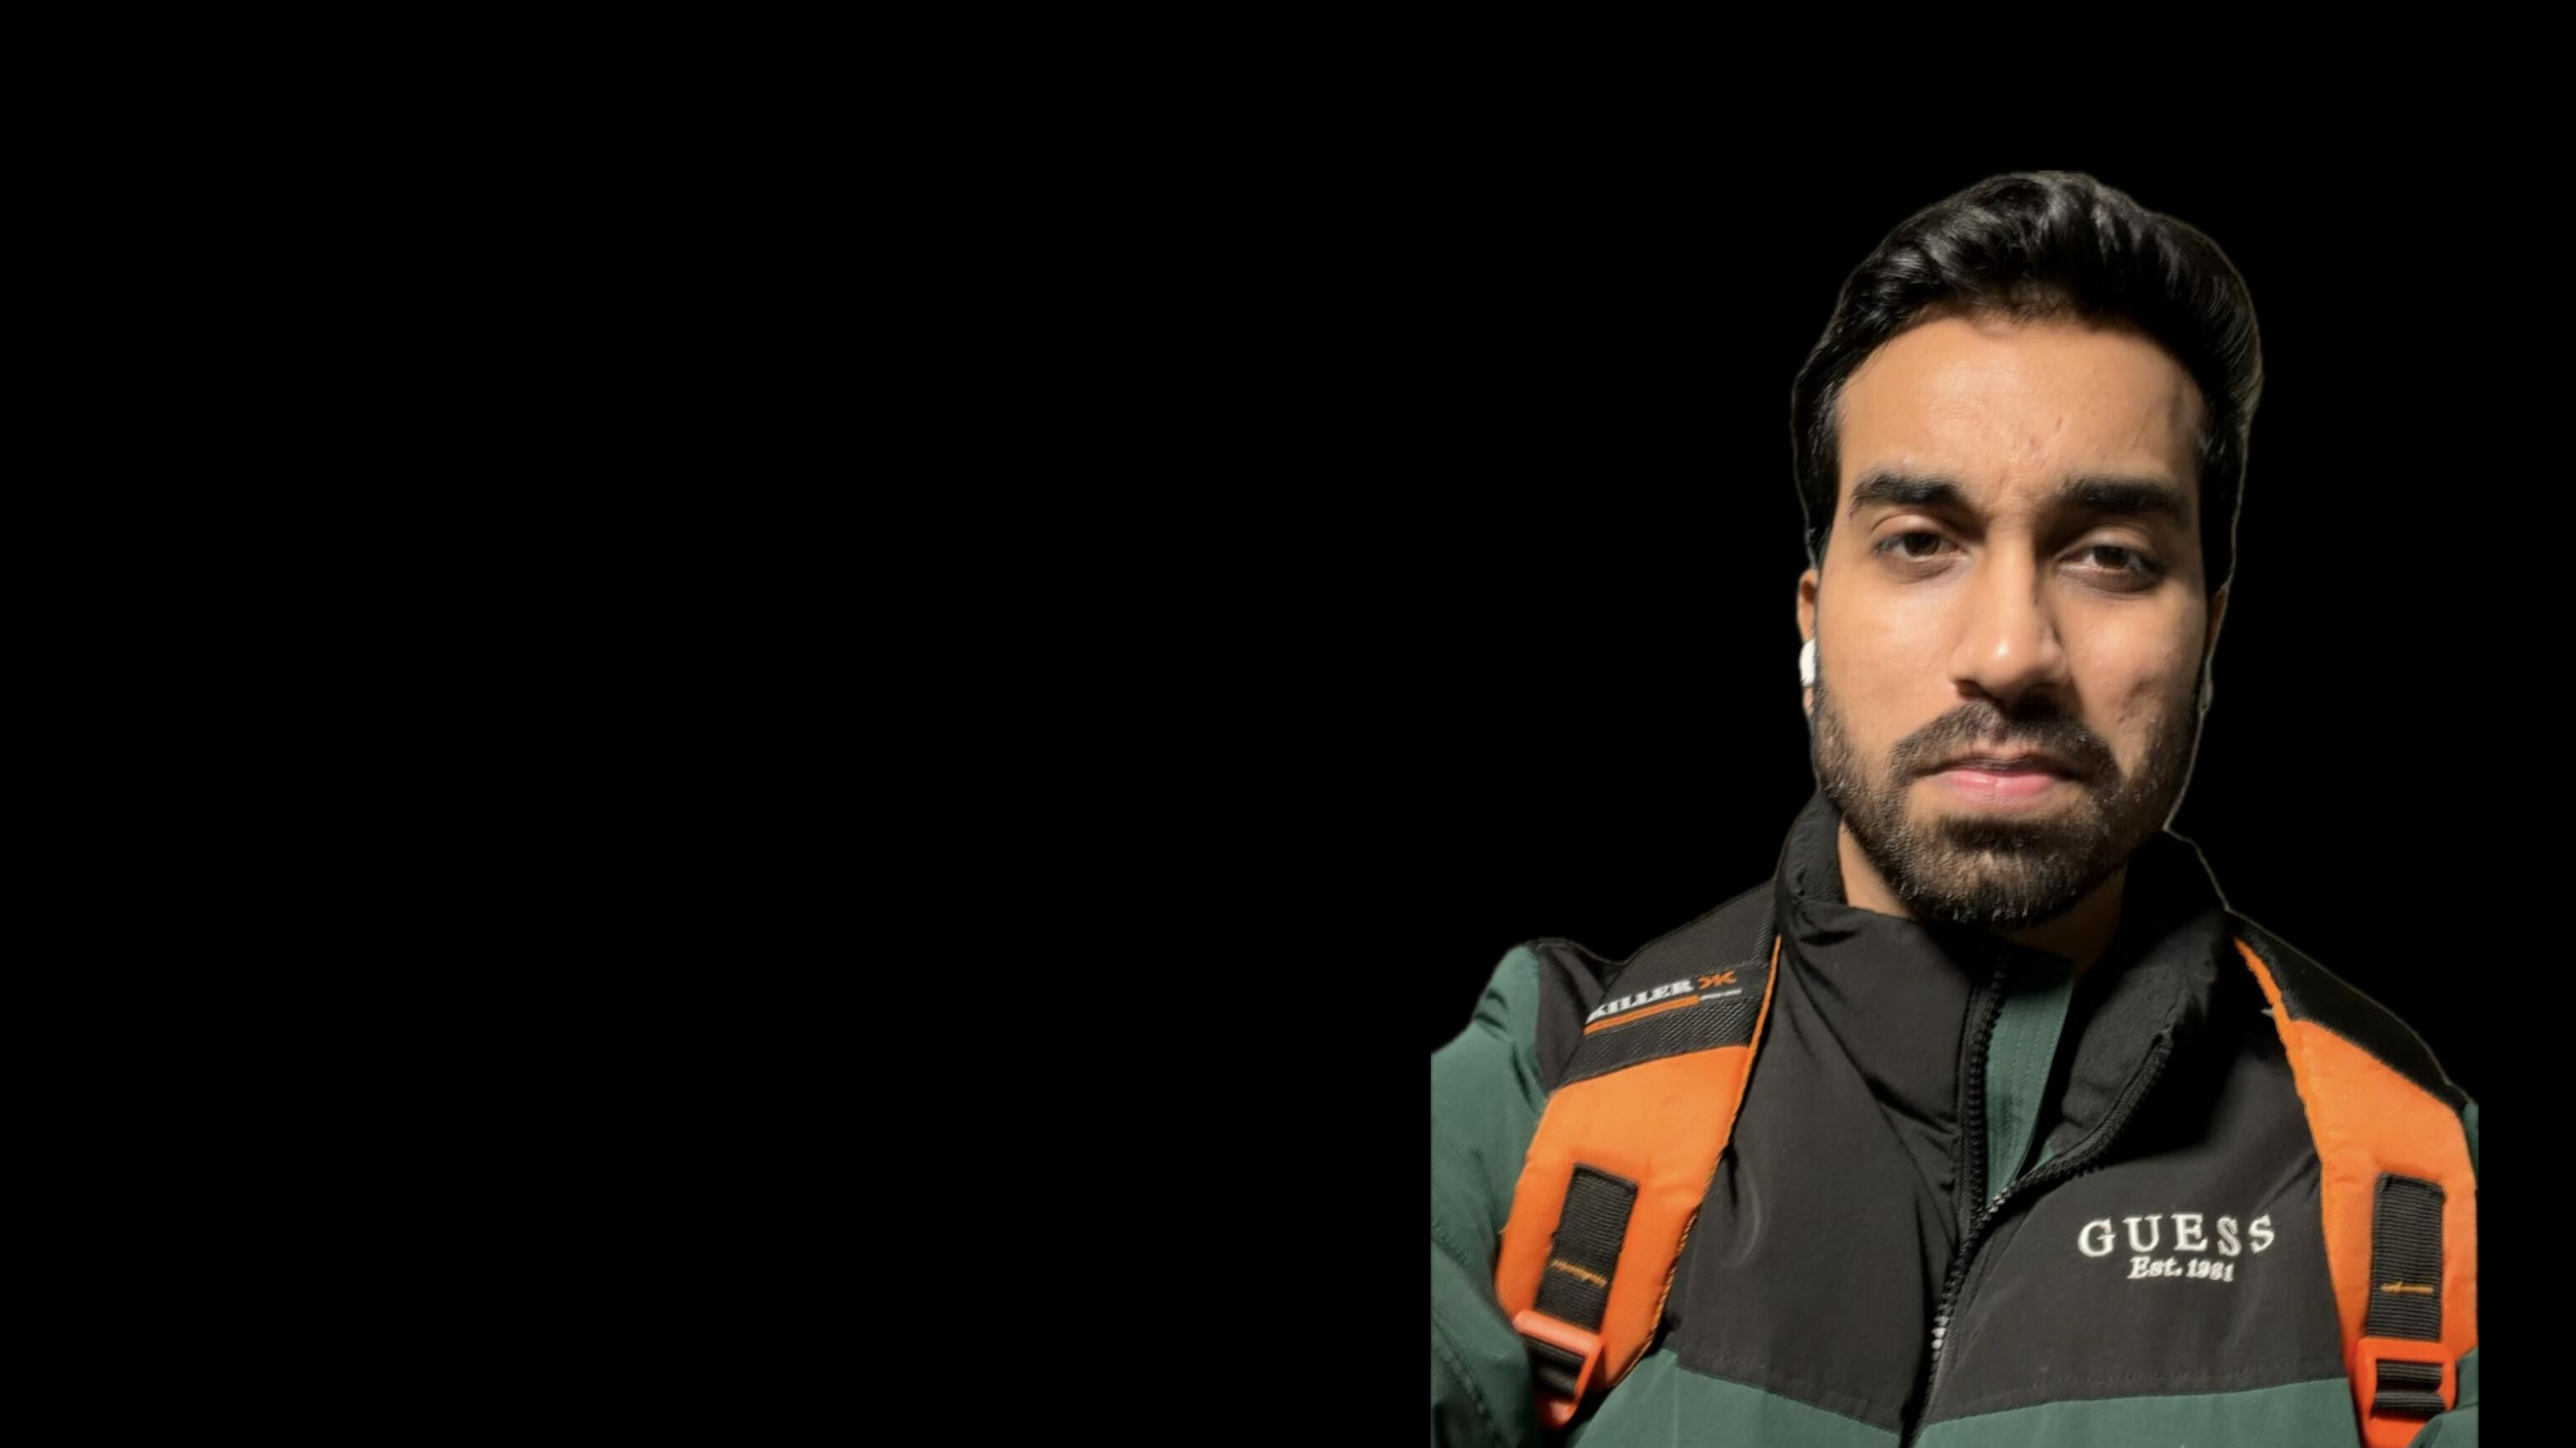
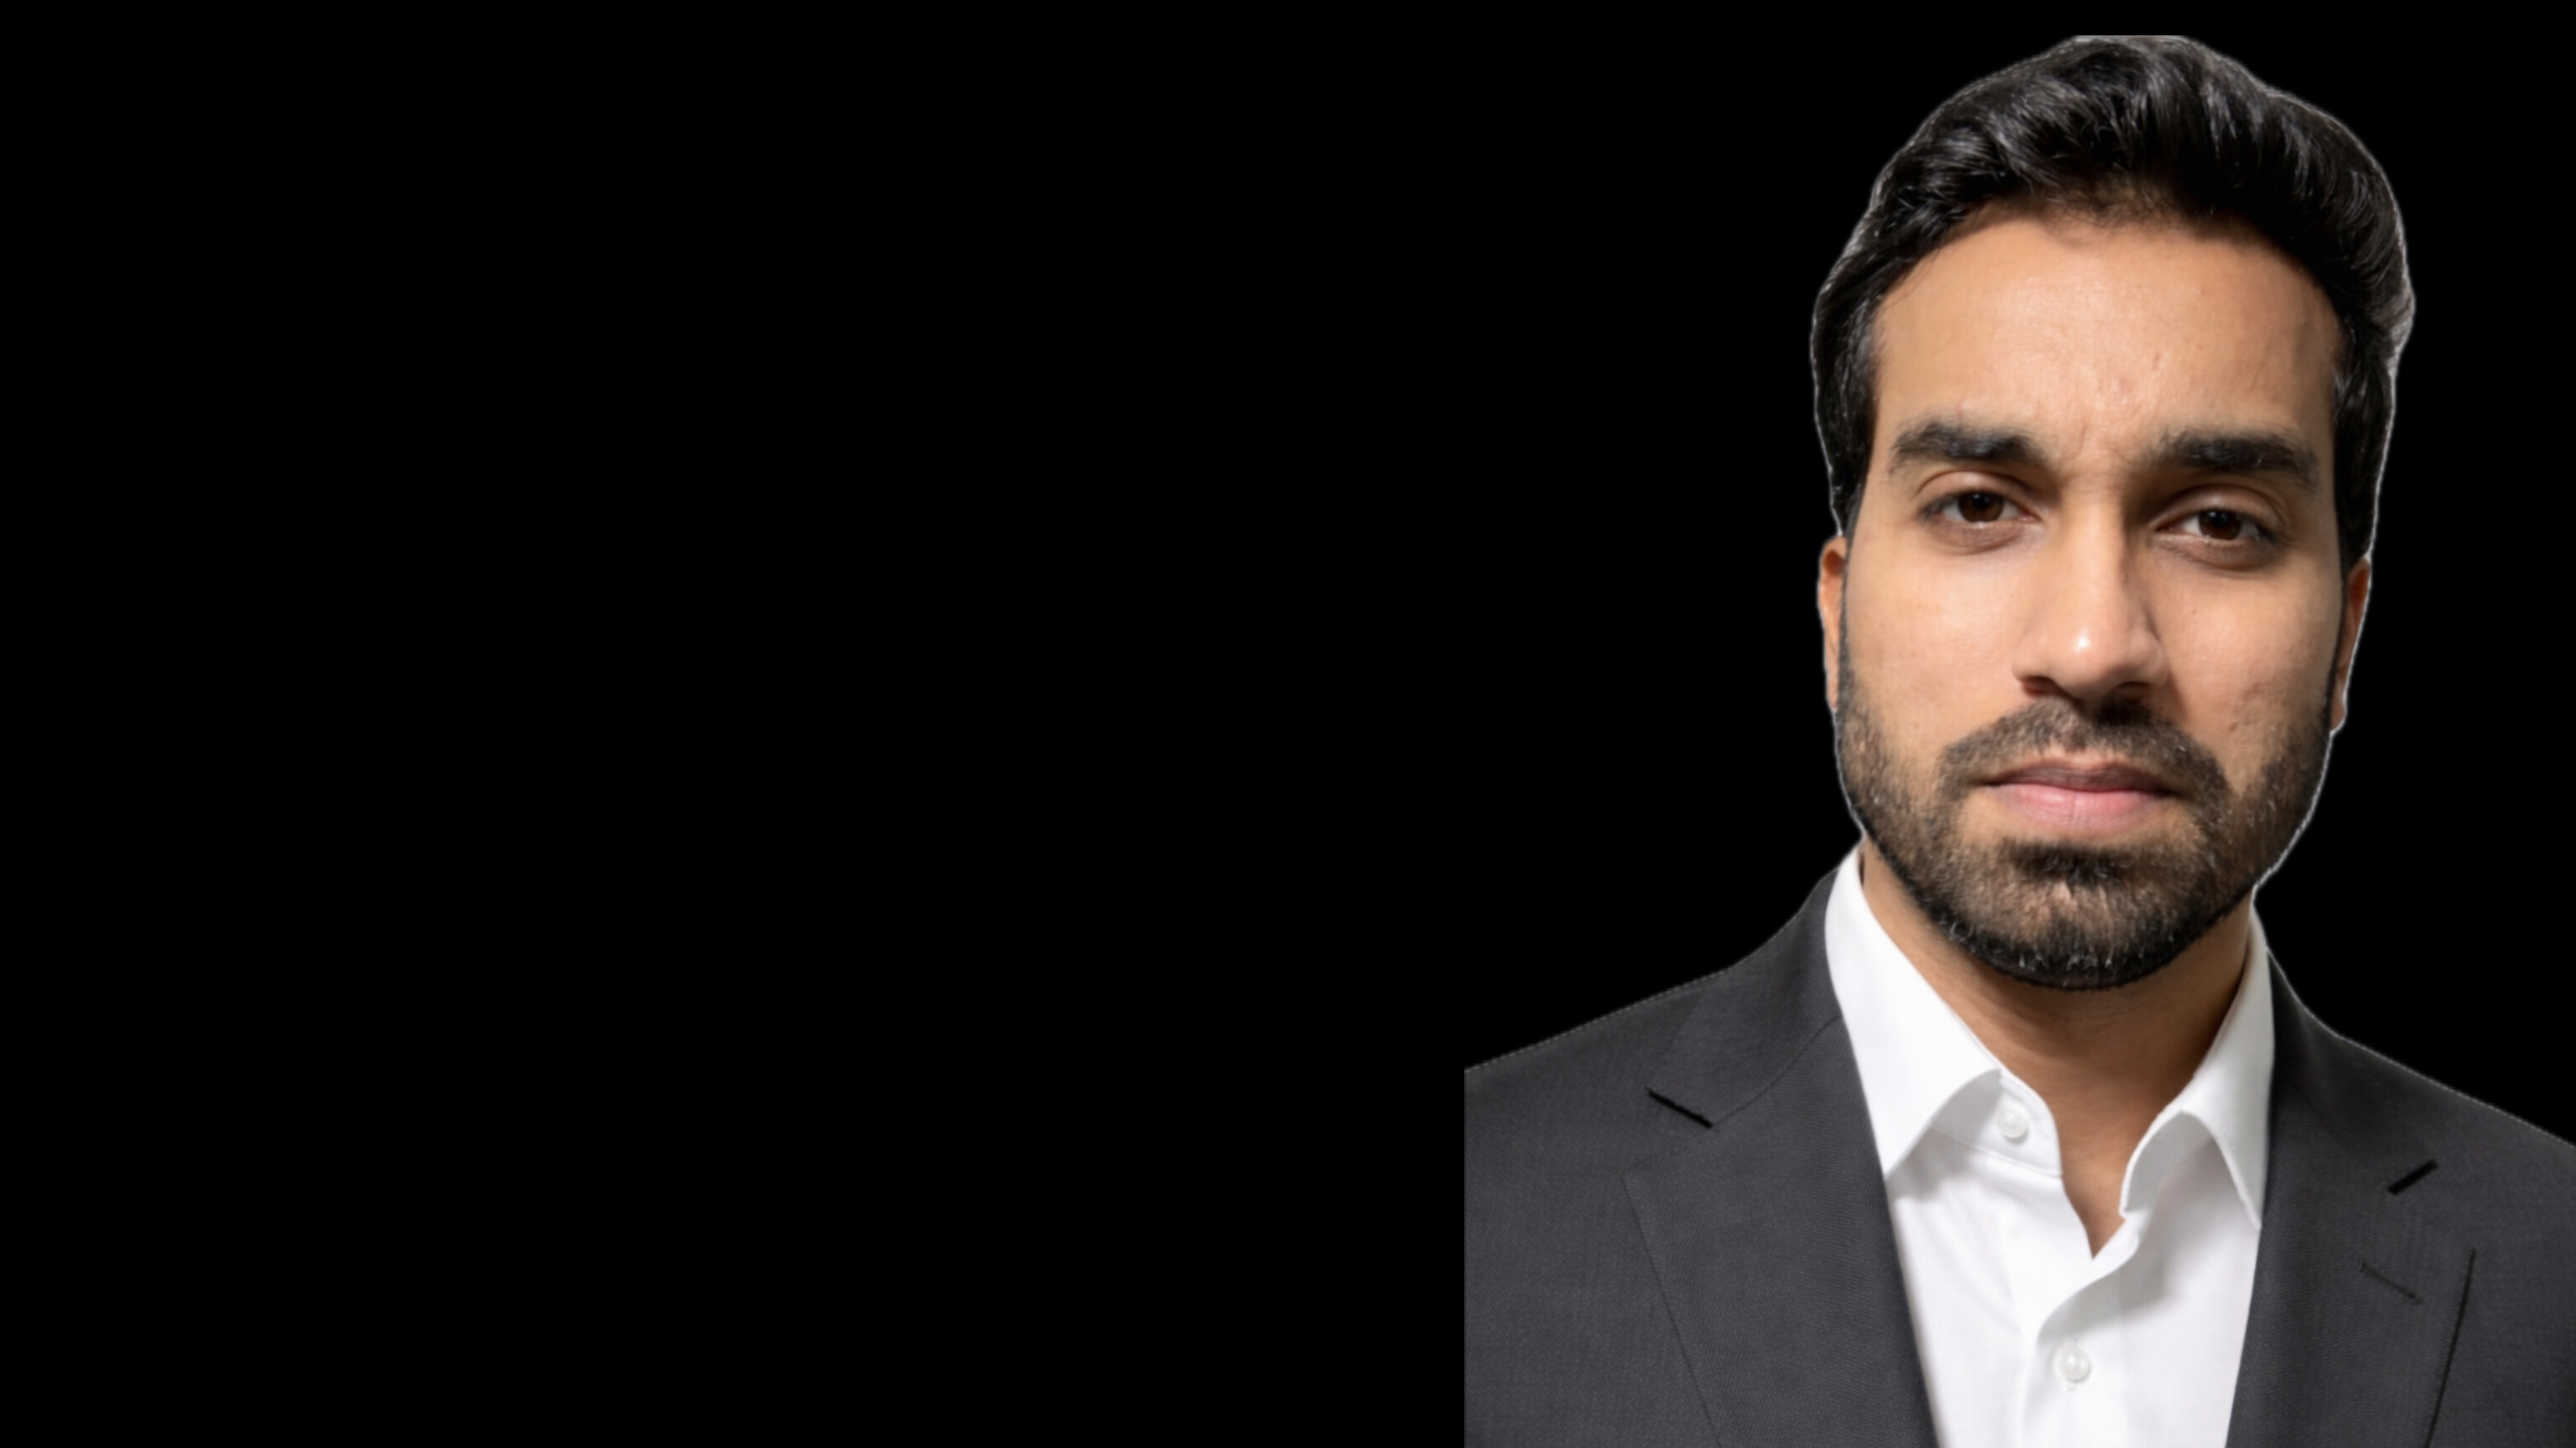
UI changes...

Changed region(s): [[0.5312, 0.0, 1.0, 1.0]]

diff --git a/src/style.css b/src/style.css
@@ -614,7 +614,7 @@ body{
   }
 
   .parallax-bg{
-    background:url('/images/navneet.jpg') no-repeat;
+    background:url('/images/IMG_0914.PNG') no-repeat;
     background-size:cover;
     background-position:center;
   }
